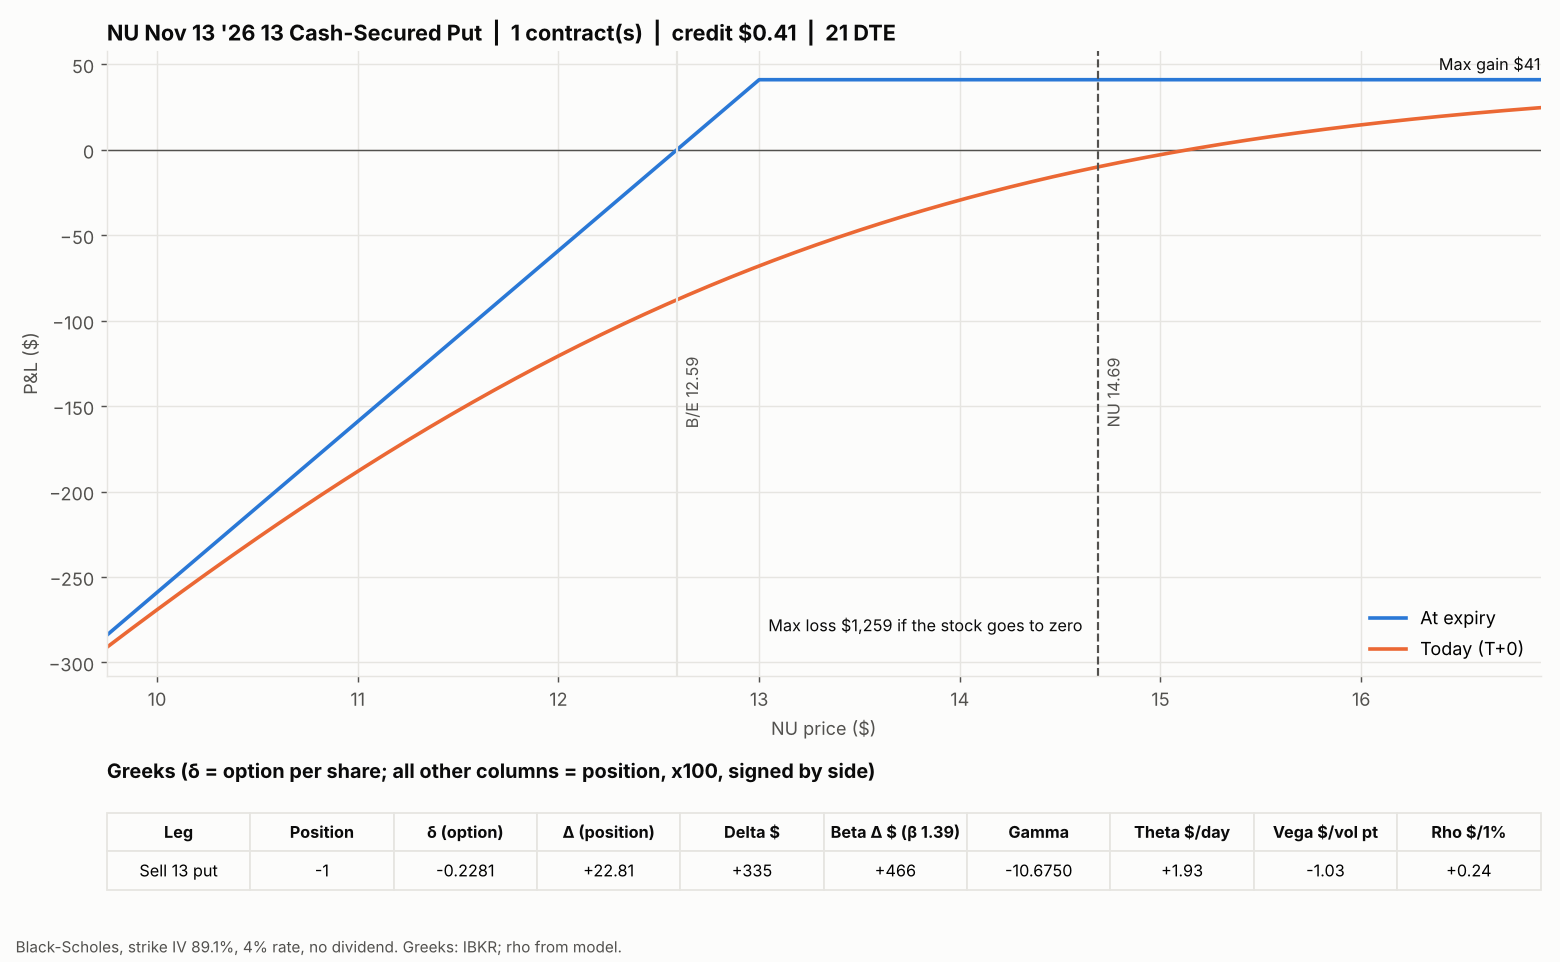
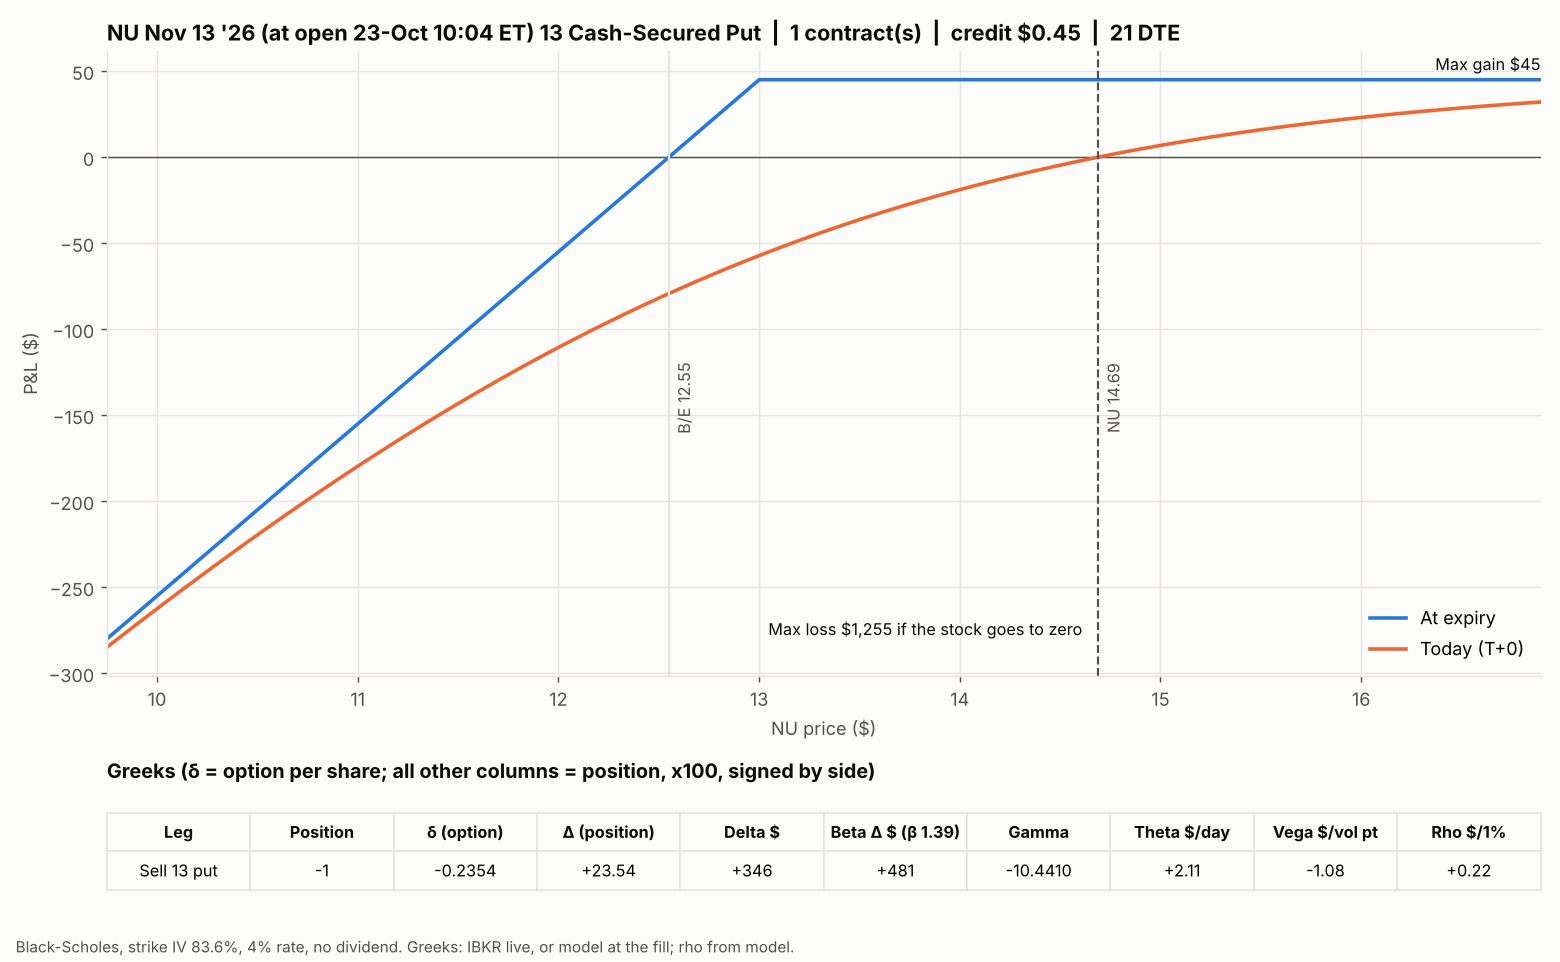
Update NU Nov 13 put chart to the 0.45 fill
Claude-Session: https://claude.ai/code/session_01FtgXF3B8kbNGSWUt2ybbKy

diff --git a/charts/csp_chart.py b/charts/csp_chart.py
@@ -77,7 +77,7 @@ for (r, c), cell in tbl.get_celld().items():
         cell.set_text_props(fontweight="bold", color=INK)
 tax.set_title("Greeks (δ = option per share; all other columns = position, x100, signed by side)",
               loc="left", fontsize=11, fontweight="bold", color=INK)
-fig.text(0.01, 0.01, f"Black-Scholes, strike IV {IV:.1%}, {R:.0%} rate, no dividend. Greeks: IBKR; rho from model.",
+fig.text(0.01, 0.01, f"Black-Scholes, strike IV {IV:.1%}, {R:.0%} rate, no dividend. Greeks: IBKR live, or model at the fill; rho from model.",
          fontsize=8.5, color=INK2)
 fig.tight_layout(rect=(0, 0.03, 1, 1))
 fig.savefig(out, dpi=130, facecolor=SURF)
